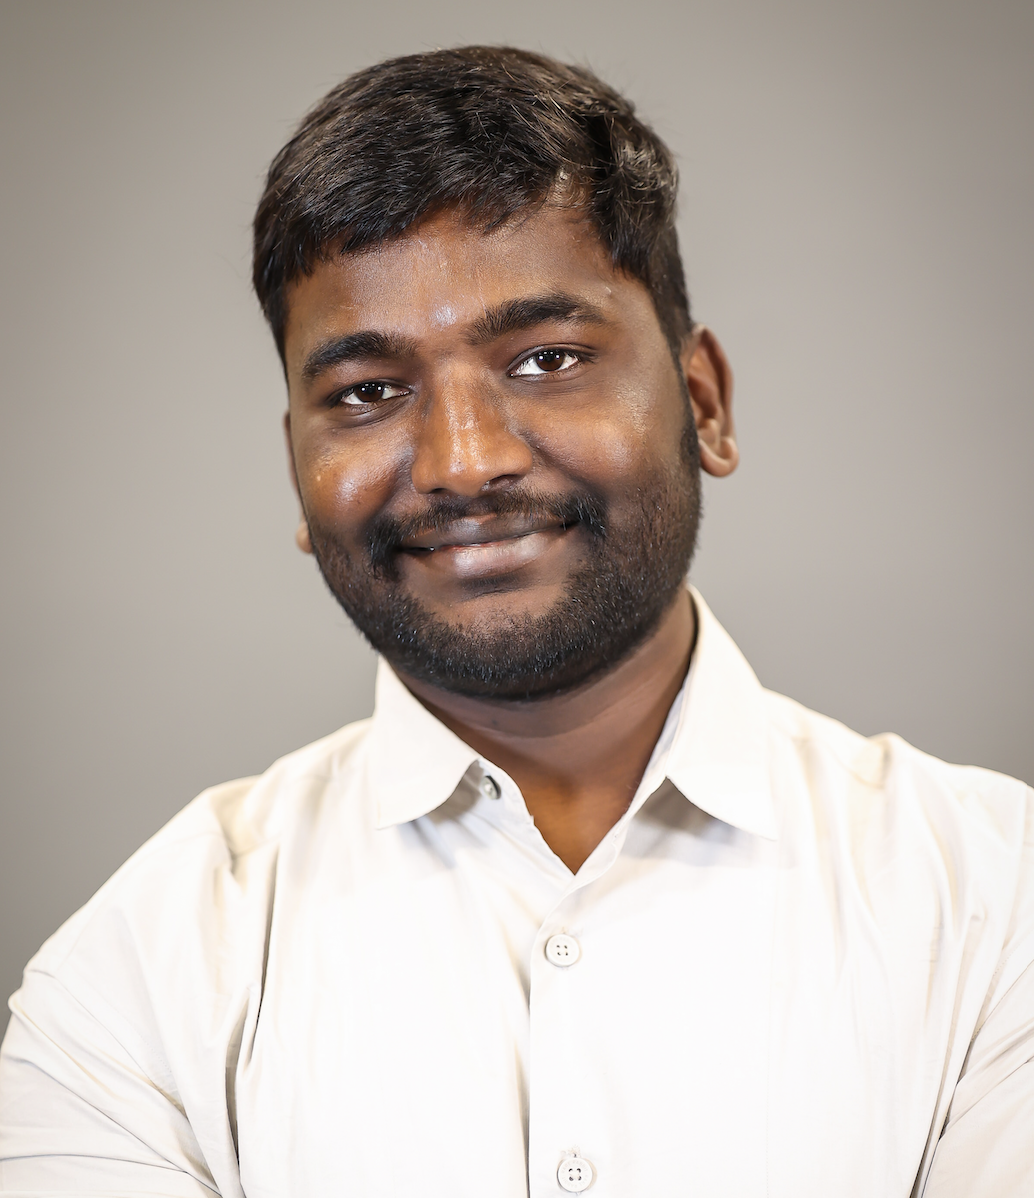
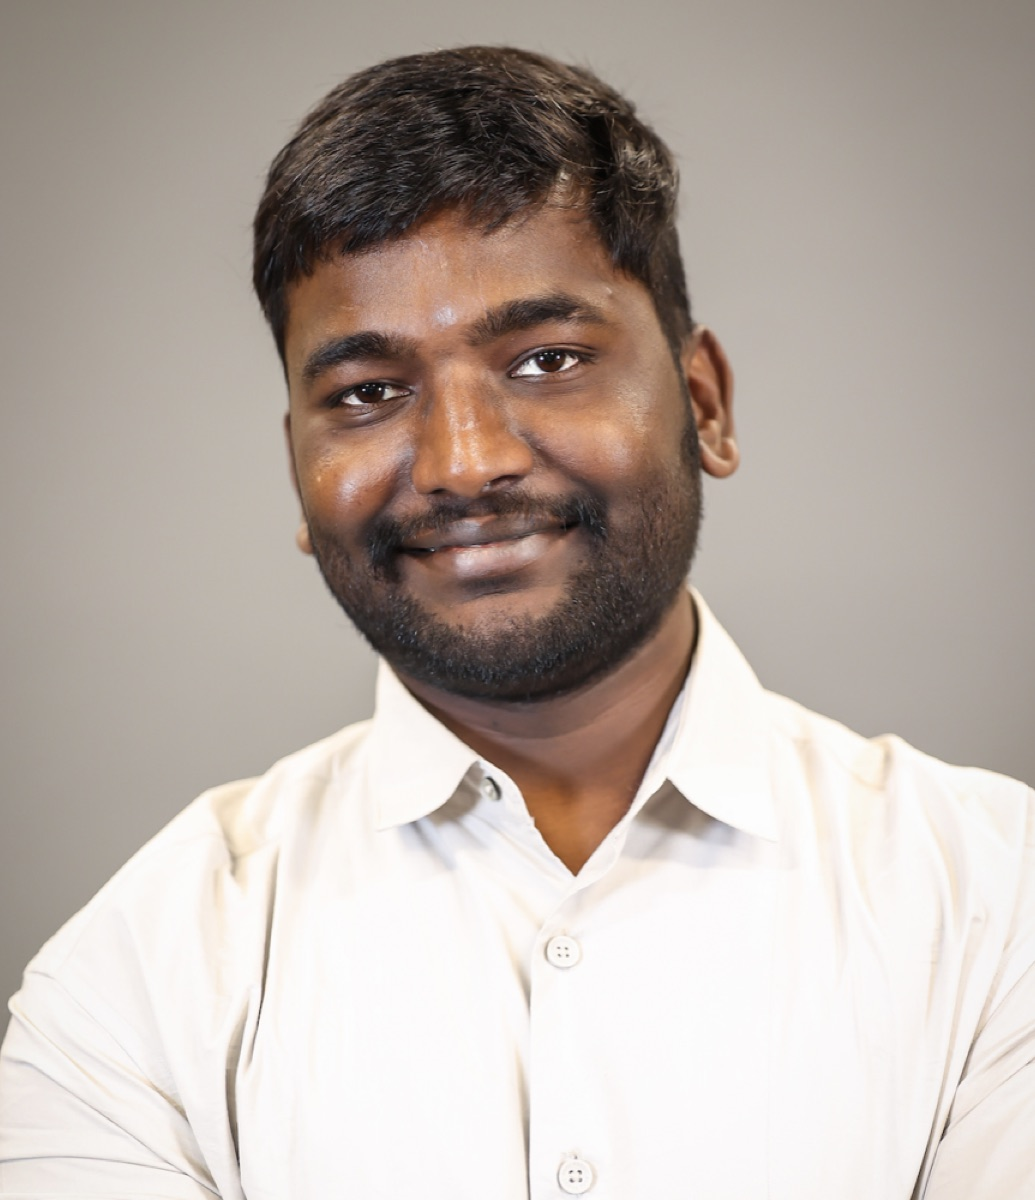
Updates

diff --git a/index.html b/index.html
@@ -4,6 +4,13 @@
     <meta charset="UTF-8" />
     <meta name="viewport" content="width=device-width, initial-scale=1.0" />
 
+    <link rel="preconnect" href="https://fonts.googleapis.com" />
+    <link rel="preconnect" href="https://fonts.gstatic.com" crossorigin />
+    <link
+      href="https://fonts.googleapis.com/css2?family=Inter:wght@400;500;600;700;800&family=JetBrains+Mono:wght@400;500;600&display=swap"
+      rel="stylesheet"
+    />
+
     <title>Chenchaiah Mekalathuru — AI/ML & LLM Inference Engineer</title>
     <meta
       name="description"
@@ -51,8 +58,8 @@
         }
       })(window.location);
     </script>
-    <script type="module" crossorigin src="/myPortfolio/assets/index-CeMOBSq3.js"></script>
-    <link rel="stylesheet" crossorigin href="/myPortfolio/assets/index-DZGjli6y.css">
+    <script type="module" crossorigin src="/myPortfolio/assets/index-YtcqZIm-.js"></script>
+    <link rel="stylesheet" crossorigin href="/myPortfolio/assets/index-DKeUb3tn.css">
   </head>
   <body>
     <div id="root"></div>

diff --git a/assets/index-DKeUb3tn.css b/assets/index-DKeUb3tn.css
@@ -1,0 +1,1 @@
[1 lines of base64/hex data omitted]